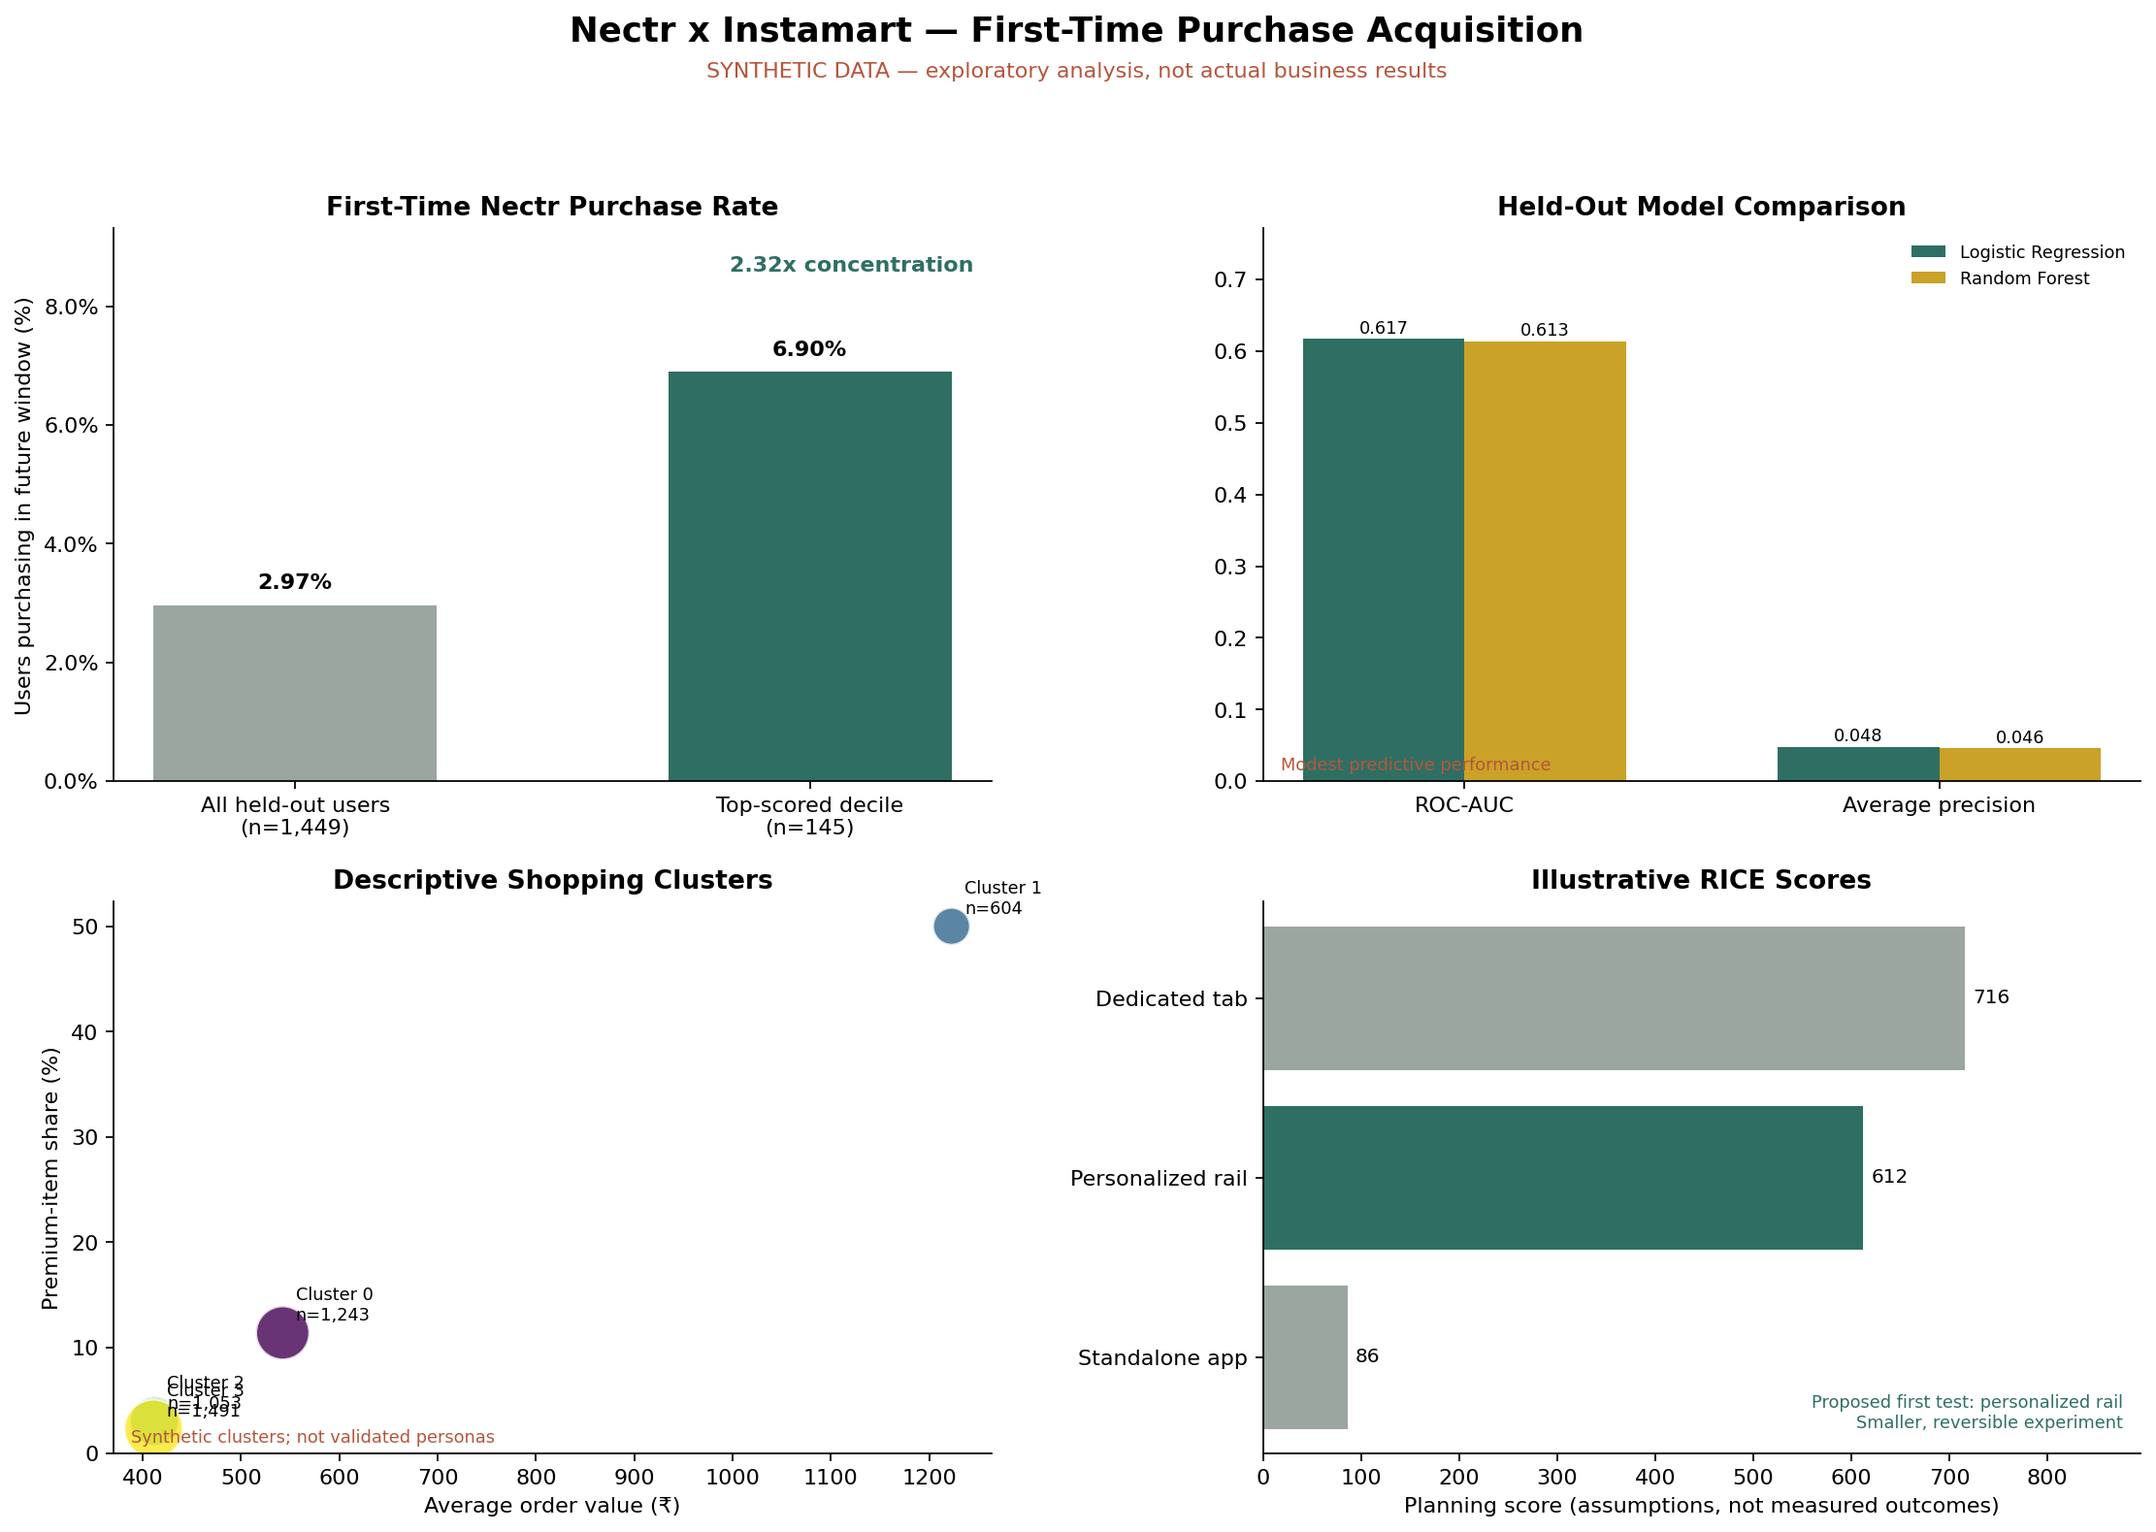
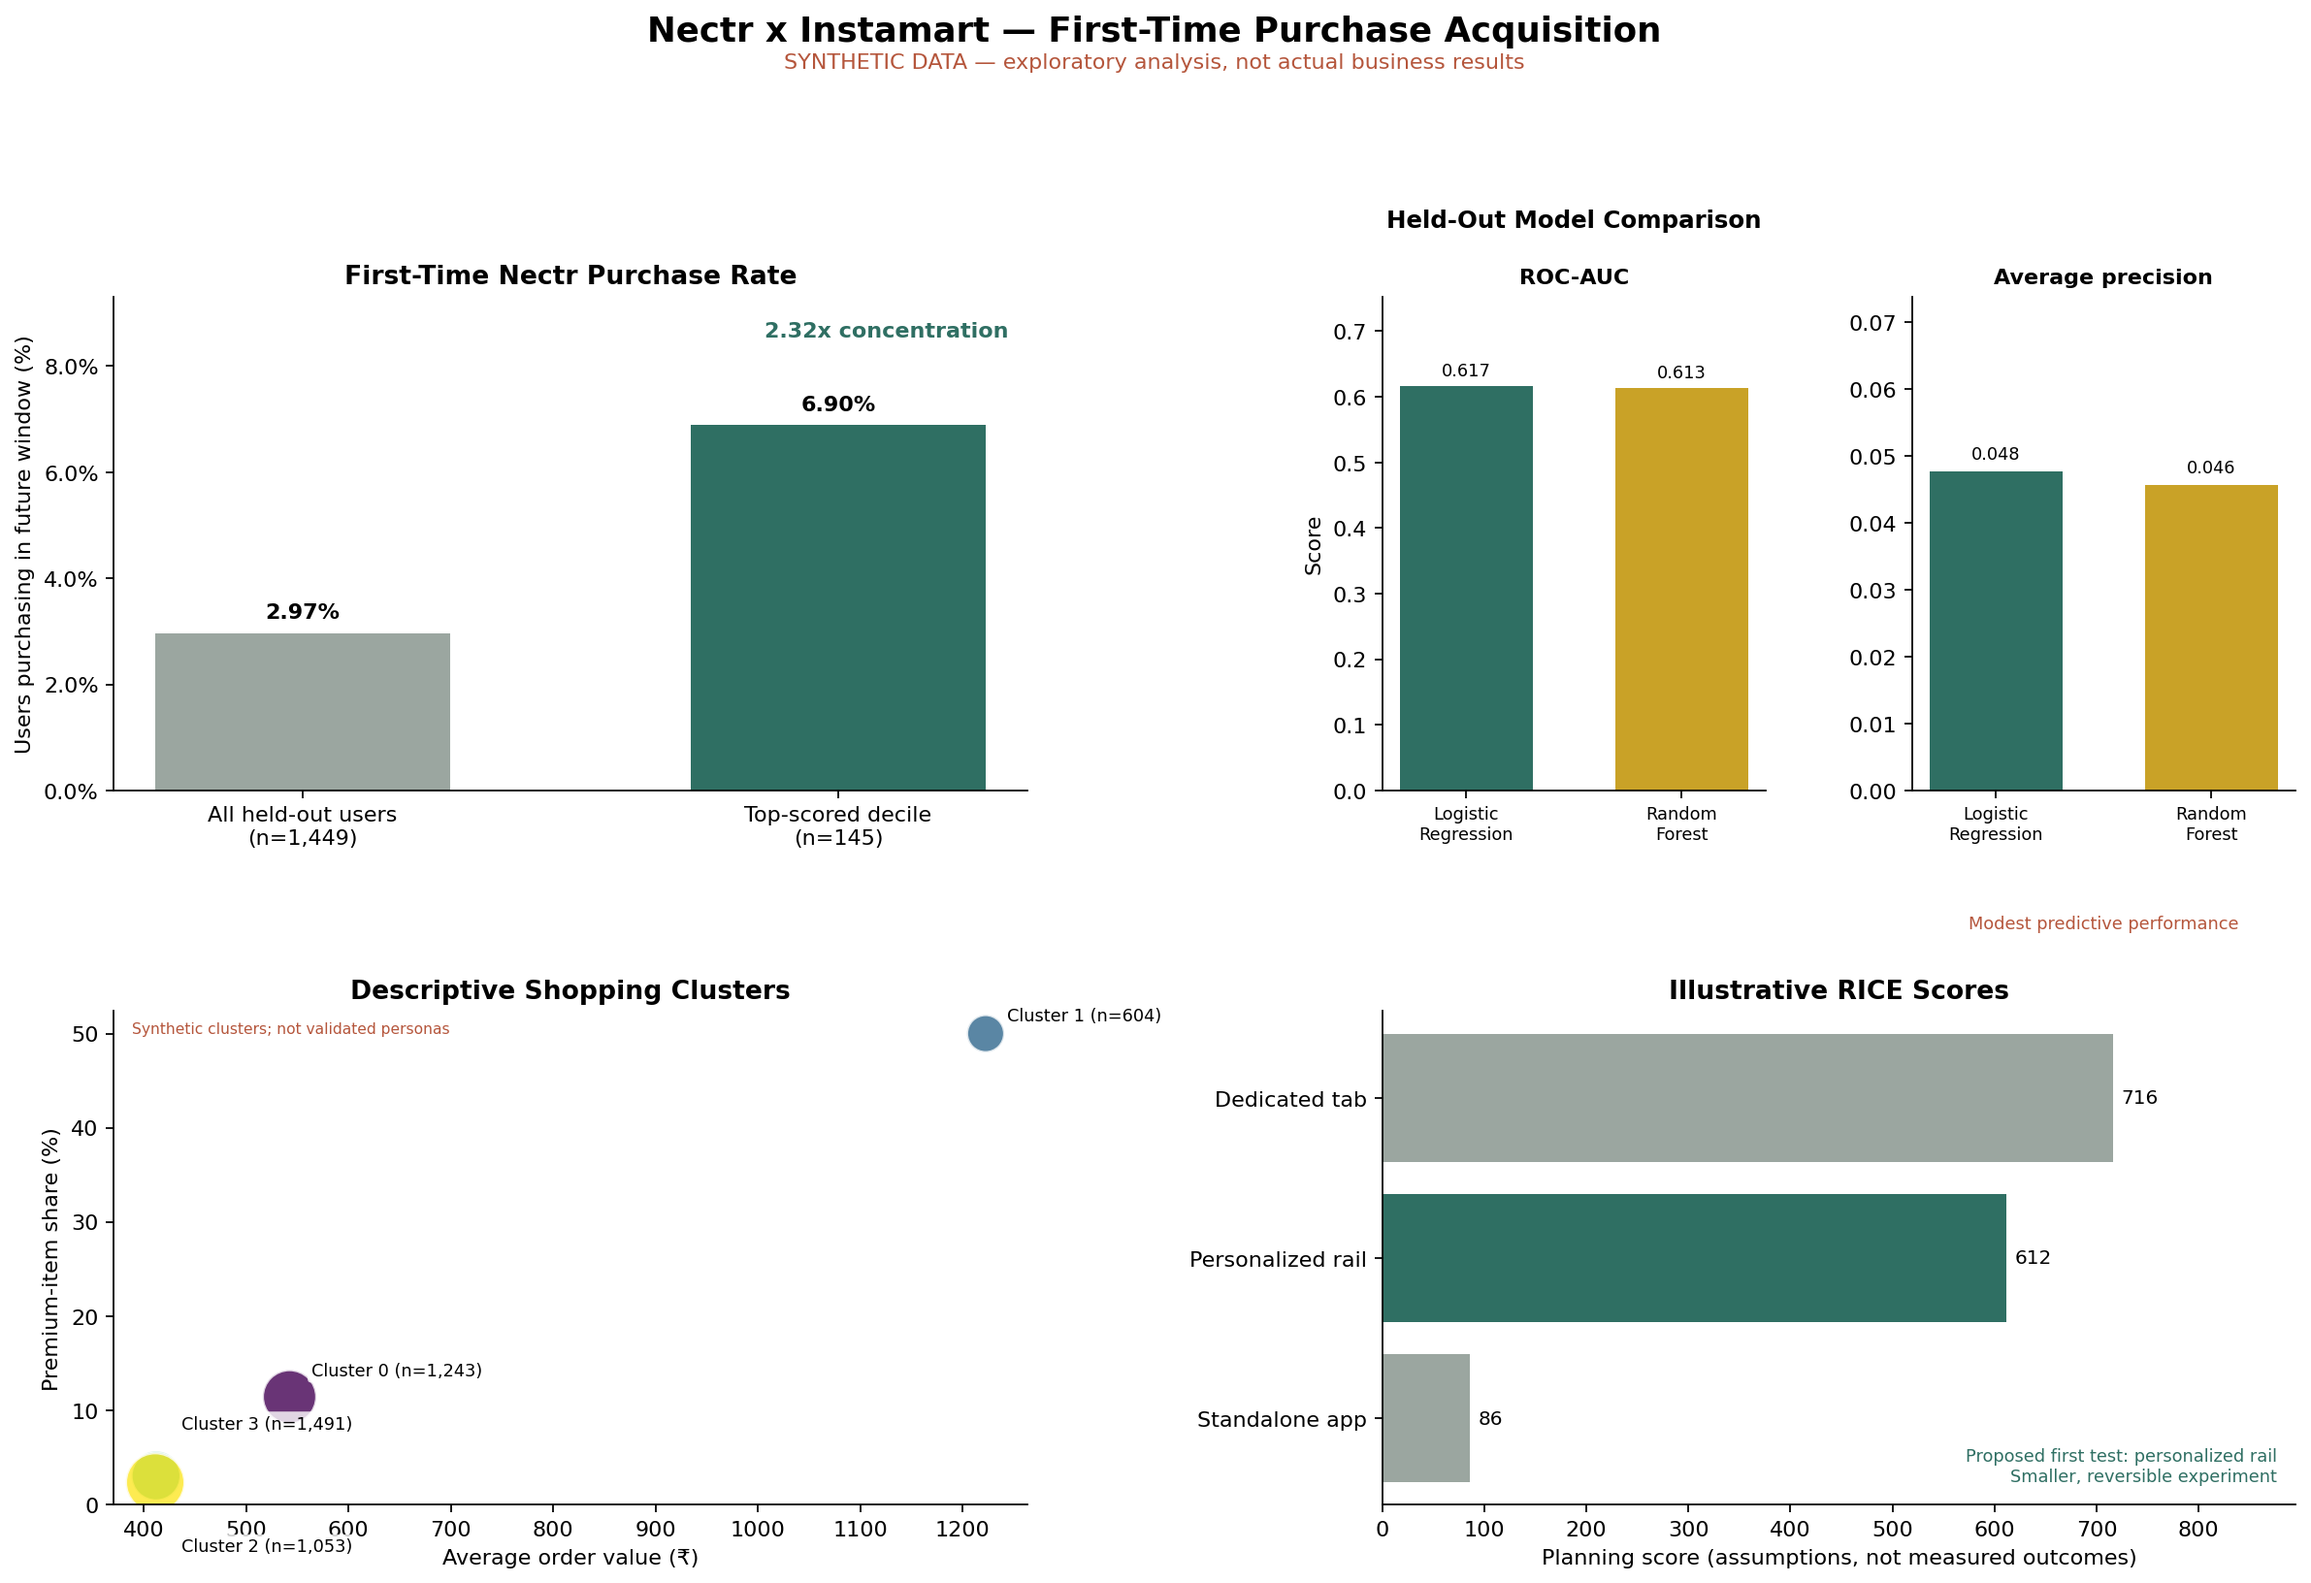
Improve acquisition dashboard visuals

diff --git a/build_dashboard.py b/build_dashboard.py
@@ -86,31 +86,20 @@ ACCENT = "#B5563C"
 
 # ---------------------------------------------------------------------
 # HELD-OUT COHORT METRICS
-# Use ceil so the top decile contains 145 of 1,449 users.
-# The same convention must be used when reporting these results.
 # ---------------------------------------------------------------------
 
 baseline_rate = scores["actual_first_nectr_purchase"].mean()
-
 top_decile_count = max(1, math.ceil(len(scores) * 0.10))
-
-# score_rank is already sorted from highest propensity to lowest.
 scores["top_decile"] = scores["score_rank"] <= top_decile_count
-
 top_decile = scores.loc[scores["top_decile"]]
 top_decile_rate = top_decile["actual_first_nectr_purchase"].mean()
-
-lift = (
-    top_decile_rate / baseline_rate
-    if baseline_rate > 0
-    else 0
-)
+lift = top_decile_rate / baseline_rate if baseline_rate > 0 else 0
 
 # ---------------------------------------------------------------------
 # DASHBOARD CANVAS
 # ---------------------------------------------------------------------
 
-fig, axes = plt.subplots(2, 2, figsize=(14, 10))
+fig, axes = plt.subplots(2, 2, figsize=(15, 10.5))
 
 fig.suptitle(
     "Nectr x Instamart — First-Time Purchase Acquisition",
@@ -121,7 +110,7 @@ fig.suptitle(
 
 fig.text(
     0.5,
-    0.945,
+    0.952,
     "SYNTHETIC DATA — exploratory analysis, not actual business results",
     ha="center",
     fontsize=10,
@@ -138,23 +127,10 @@ labels = [
     f"All held-out users\n(n={len(scores):,})",
     f"Top-scored decile\n(n={len(top_decile):,})",
 ]
+values = [baseline_rate * 100, top_decile_rate * 100]
 
-values = [
-    baseline_rate * 100,
-    top_decile_rate * 100,
-]
-
-bars = ax.bar(
-    labels,
-    values,
-    color=[MUTED, PRIMARY],
-    width=0.55,
-)
-
-ax.set_title(
-    "First-Time Nectr Purchase Rate",
-    fontweight="bold",
-)
+bars = ax.bar(labels, values, color=[MUTED, PRIMARY], width=0.55)
+ax.set_title("First-Time Nectr Purchase Rate", fontweight="bold")
 ax.set_ylabel("Users purchasing in future window (%)")
 ax.yaxis.set_major_formatter(mticker.PercentFormatter())
 
@@ -182,63 +158,93 @@ ax.text(
 )
 
 # ---------------------------------------------------------------------
-# CHART 2: HELD-OUT MODEL COMPARISON
+# CHART 2: MODEL COMPARISON
+# Separate panels keep average-precision values readable.
 # ---------------------------------------------------------------------
 
-ax = axes[0, 1]
+model_grid = axes[0, 1].get_subplotspec().subgridspec(1, 2, wspace=0.38)
+axes[0, 1].remove()
 
-metric_columns = ["roc_auc", "average_precision"]
-metric_labels = ["ROC-AUC", "Average precision"]
+ax_auc = fig.add_subplot(model_grid[0, 0])
+ax_ap = fig.add_subplot(model_grid[0, 1])
 
-x_positions = list(range(len(metric_columns)))
-bar_width = 0.34
+model_colors = {
+    "Logistic Regression": PRIMARY,
+    "Random Forest": SECONDARY,
+}
+ordered_models = metrics["model"].tolist()
+positions = list(range(len(ordered_models)))
 
-for i, (_, row) in enumerate(metrics.iterrows()):
-    values = [row[column] for column in metric_columns]
+auc_values = [
+    float(metrics.loc[metrics["model"] == model, "roc_auc"].iloc[0])
+    for model in ordered_models
+]
+ap_values = [
+    float(metrics.loc[metrics["model"] == model, "average_precision"].iloc[0])
+    for model in ordered_models
+]
+colors = [model_colors.get(model, MUTED) for model in ordered_models]
 
-    positions = [
-        position + (i - (len(metrics) - 1) / 2) * bar_width
-        for position in x_positions
-    ]
+auc_bars = ax_auc.bar(positions, auc_values, color=colors, width=0.62)
+ax_auc.set_title("ROC-AUC", fontweight="bold", fontsize=10)
+ax_auc.set_xticks(positions)
+ax_auc.set_xticklabels(
+    ["Logistic\nRegression", "Random\nForest"], fontsize=8
+)
+ax_auc.set_ylim(0, max(auc_values) * 1.22)
+ax_auc.set_ylabel("Score")
 
-    bars = ax.bar(
-        positions,
-        values,
-        bar_width,
-        label=row["model"],
-        color=PRIMARY if i == 0 else SECONDARY,
+for bar, value in zip(auc_bars, auc_values):
+    ax_auc.text(
+        bar.get_x() + bar.get_width() / 2,
+        bar.get_height() + max(auc_values) * 0.025,
+        f"{value:.3f}",
+        ha="center",
+        fontsize=8,
     )
 
-    for bar, value in zip(bars, values):
-        ax.text(
-            bar.get_x() + bar.get_width() / 2,
-            bar.get_height() + 0.008,
-            f"{value:.3f}",
-            ha="center",
-            fontsize=8,
-        )
-
-ax.set_xticks(x_positions)
-ax.set_xticklabels(metric_labels)
-ax.set_ylim(
-    0,
-    max(float(metrics["roc_auc"].max()), 0.1) * 1.25,
+ap_bars = ax_ap.bar(positions, ap_values, color=colors, width=0.62)
+ax_ap.set_title("Average precision", fontweight="bold", fontsize=10)
+ax_ap.set_xticks(positions)
+ax_ap.set_xticklabels(
+    ["Logistic\nRegression", "Random\nForest"], fontsize=8
 )
-ax.set_title("Held-Out Model Comparison", fontweight="bold")
-ax.legend(frameon=False, fontsize=8)
+ax_ap.set_ylim(
+    0, max(ap_values) * 1.55 if max(ap_values) > 0 else 0.1
+)
 
-ax.text(
-    0.02,
-    0.02,
+for bar, value in zip(ap_bars, ap_values):
+    ax_ap.text(
+        bar.get_x() + bar.get_width() / 2,
+        bar.get_height() + max(ap_values) * 0.04,
+        f"{value:.3f}",
+        ha="center",
+        fontsize=8,
+    )
+
+ax_auc.text(
+    0.5,
+    1.14,
+    "Held-Out Model Comparison",
+    transform=ax_auc.transAxes,
+    ha="center",
+    fontweight="bold",
+    fontsize=11,
+)
+
+ax_ap.text(
+    0.5,
+    -0.28,
     "Modest predictive performance",
-    transform=ax.transAxes,
+    transform=ax_ap.transAxes,
+    ha="center",
     fontsize=8,
     color=ACCENT,
 )
 
 # ---------------------------------------------------------------------
 # CHART 3: DESCRIPTIVE SHOPPING CLUSTERS
-# These are not validated customer personas.
+# Label positions are adjusted to reduce overlap.
 # ---------------------------------------------------------------------
 
 ax = axes[1, 0]
@@ -254,38 +260,50 @@ ax.scatter(
     linewidth=1.2,
 )
 
+label_offsets = {
+    0: (10, 10),
+    1: (10, 6),
+    2: (12, -35),
+    3: (12, 25),
+}
+
 for _, row in clusters.iterrows():
+    cluster_id = int(row["cluster"])
     ax.annotate(
-        f"Cluster {int(row['cluster'])}\n"
-        f"n={int(row['users']):,}",
+        f"Cluster {cluster_id} (n={int(row['users']):,})",
         (
             row["avg_order_value"],
             row["avg_premium_item_share"] * 100,
         ),
-        xytext=(6, 6),
+        xytext=label_offsets.get(cluster_id, (8, 8)),
         textcoords="offset points",
         fontsize=8,
+        bbox=dict(
+            boxstyle="round,pad=0.2",
+            fc="white",
+            ec="none",
+            alpha=0.8,
+        ),
     )
 
-ax.set_title(
-    "Descriptive Shopping Clusters",
-    fontweight="bold",
-)
+ax.set_title("Descriptive Shopping Clusters", fontweight="bold")
 ax.set_xlabel("Average order value (₹)")
 ax.set_ylabel("Premium-item share (%)")
 
+# Keep the disclaimer away from the low-AOV cluster labels.
 ax.text(
     0.02,
-    0.02,
+    0.98,
     "Synthetic clusters; not validated personas",
     transform=ax.transAxes,
-    fontsize=8,
+    fontsize=7,
     color=ACCENT,
+    ha="left",
+    va="top",
 )
 
 # ---------------------------------------------------------------------
 # CHART 4: ILLUSTRATIVE RICE COMPARISON
-# Scores are planning assumptions, not measured outcomes.
 # ---------------------------------------------------------------------
 
 ax = axes[1, 1]
@@ -306,12 +324,7 @@ bar_colors = [
     for option in options["option"]
 ]
 
-bars = ax.barh(
-    options["option"],
-    options["score"],
-    color=bar_colors,
-)
-
+bars = ax.barh(options["option"], options["score"], color=bar_colors)
 ax.set_title("Illustrative RICE Scores", fontweight="bold")
 ax.set_xlabel("Planning score (assumptions, not measured outcomes)")
 ax.set_xlim(0, options["score"].max() * 1.25)
@@ -328,8 +341,7 @@ for bar, value in zip(bars, options["score"]):
 ax.text(
     0.98,
     0.04,
-    "Proposed first test: personalized rail\n"
-    "Smaller, reversible experiment",
+    "Proposed first test: personalized rail\nSmaller, reversible experiment",
     transform=ax.transAxes,
     ha="right",
     va="bottom",
@@ -341,7 +353,7 @@ ax.text(
 # SAVE OUTPUT
 # ---------------------------------------------------------------------
 
-plt.tight_layout(rect=[0, 0, 1, 0.92])
+plt.tight_layout(rect=[0, 0.015, 1, 0.92])
 fig.savefig(OUTPUT_PATH, dpi=160, bbox_inches="tight")
 plt.close(fig)
 
